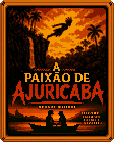
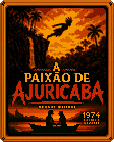
feat(front): replace generic frame asset with specific date-themed frame artworks in LevelConfig and map data

Changed region(s): [[0.6842, 0.7887, 0.8947, 0.8732], [0.1053, 0.9014, 0.2105, 0.9296]]

diff --git a/front/src/game/data/LevelConfig.ts b/front/src/game/data/LevelConfig.ts
@@ -179,16 +179,28 @@ export const LEVEL_ASSETS = {
         key: "anel-do-nibelungo-framed",
         path: "artworks/posters/cartazes/anel-do-nibelungo-framed.png",
       },
+      {
+        key: "frame-date-ajuricaba",
+        path: "artworks/posters/cartazes/frame-date-ajuricaba.png",
+      },
+      {
+        key: "frame-date-malandro",
+        path: "artworks/posters/cartazes/frame-date-malandro.png",
+      },
+      {
+        key: "frame-date-nibelungo",
+        path: "artworks/posters/cartazes/frame-date-nibelungo.png",
+      },
+      {
+        key: "frame-date-zona-franca",
+        path: "artworks/posters/cartazes/frame-date-zona-franca.png",
+      },
     ],
     CHUNKS: [],
     OTHERS: [
       {
         key: "p1",
         path: "moving-platforms/p1.png",
-      },
-      {
-        key: "frame",
-        path: "misc/frame.png",
       },
       {
         key: "poster-label",
